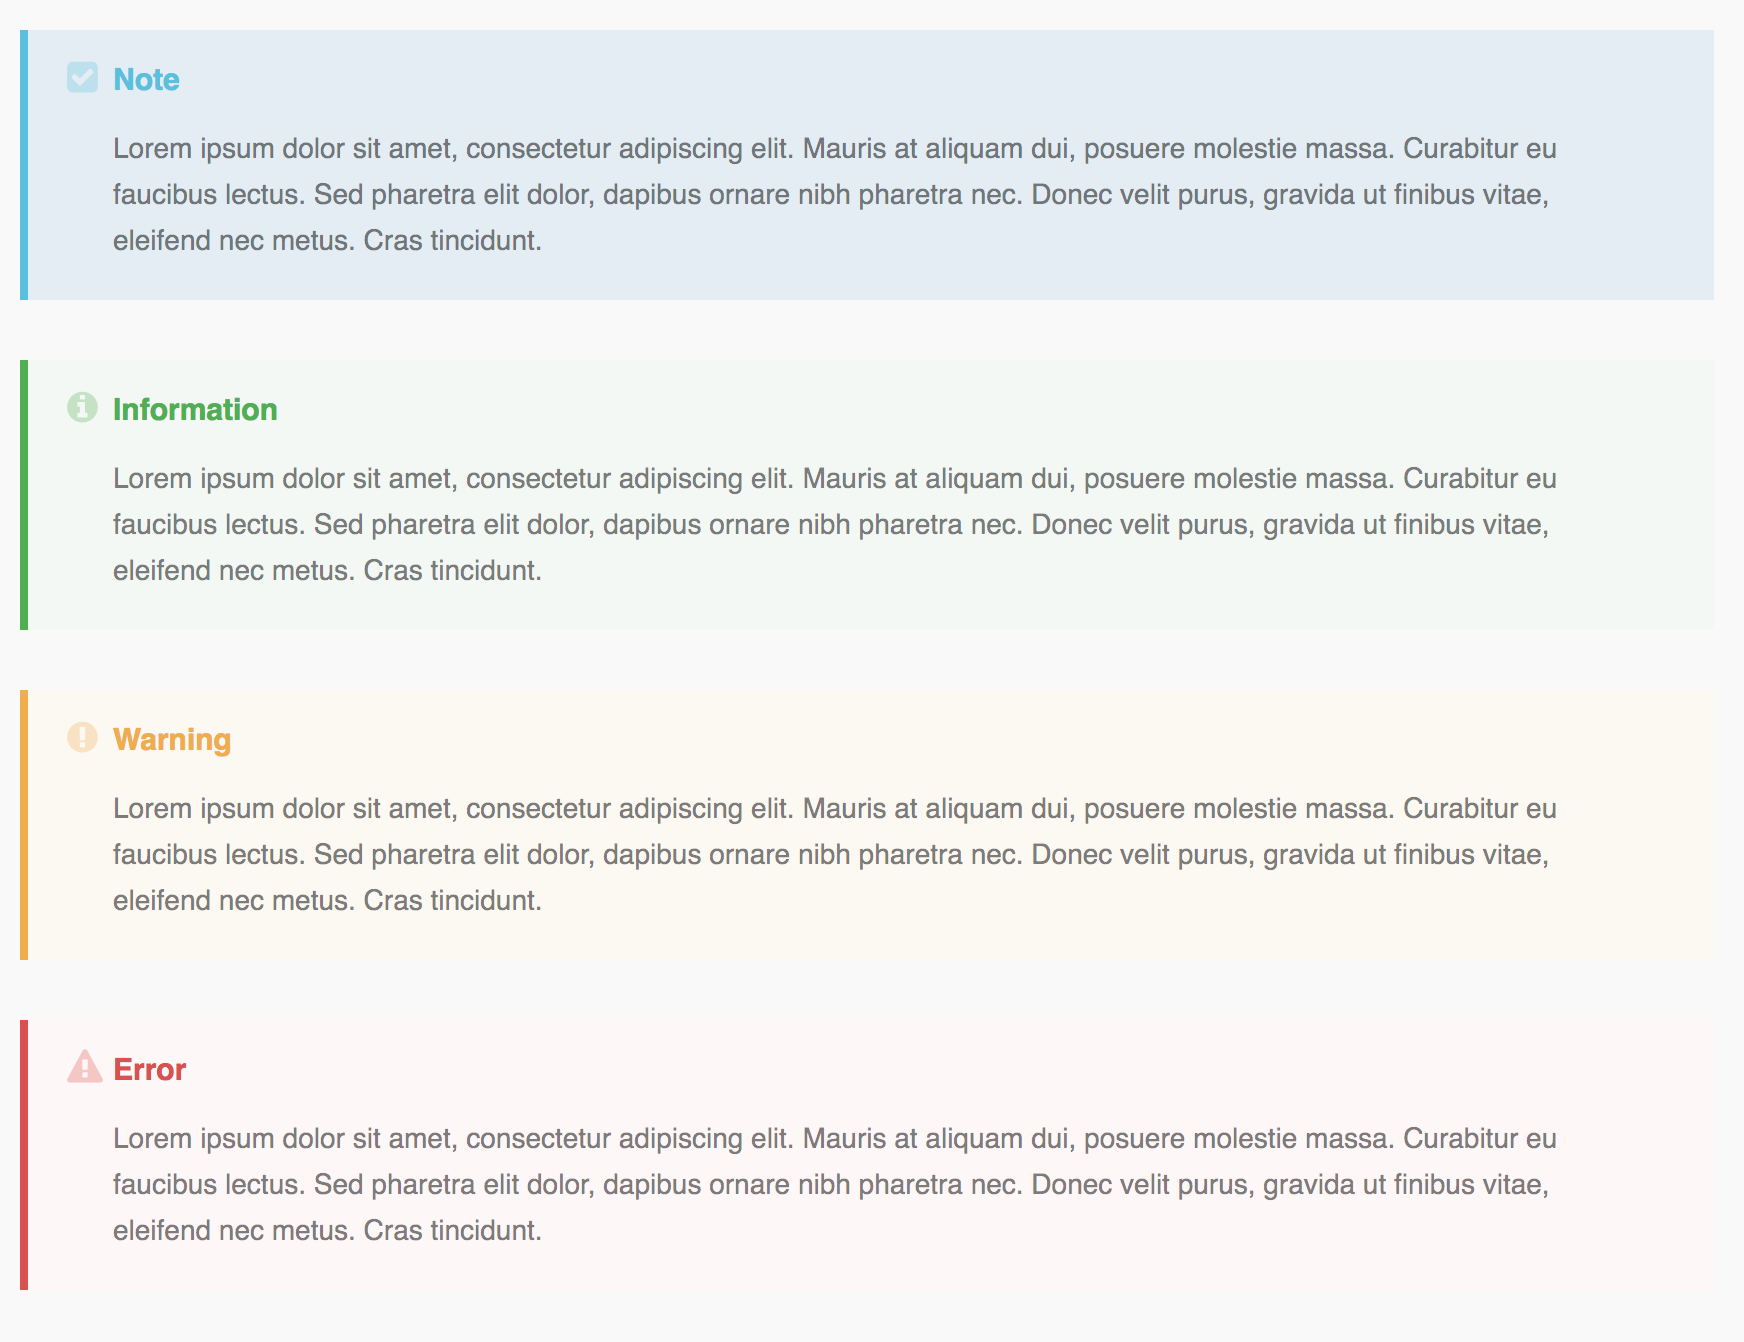
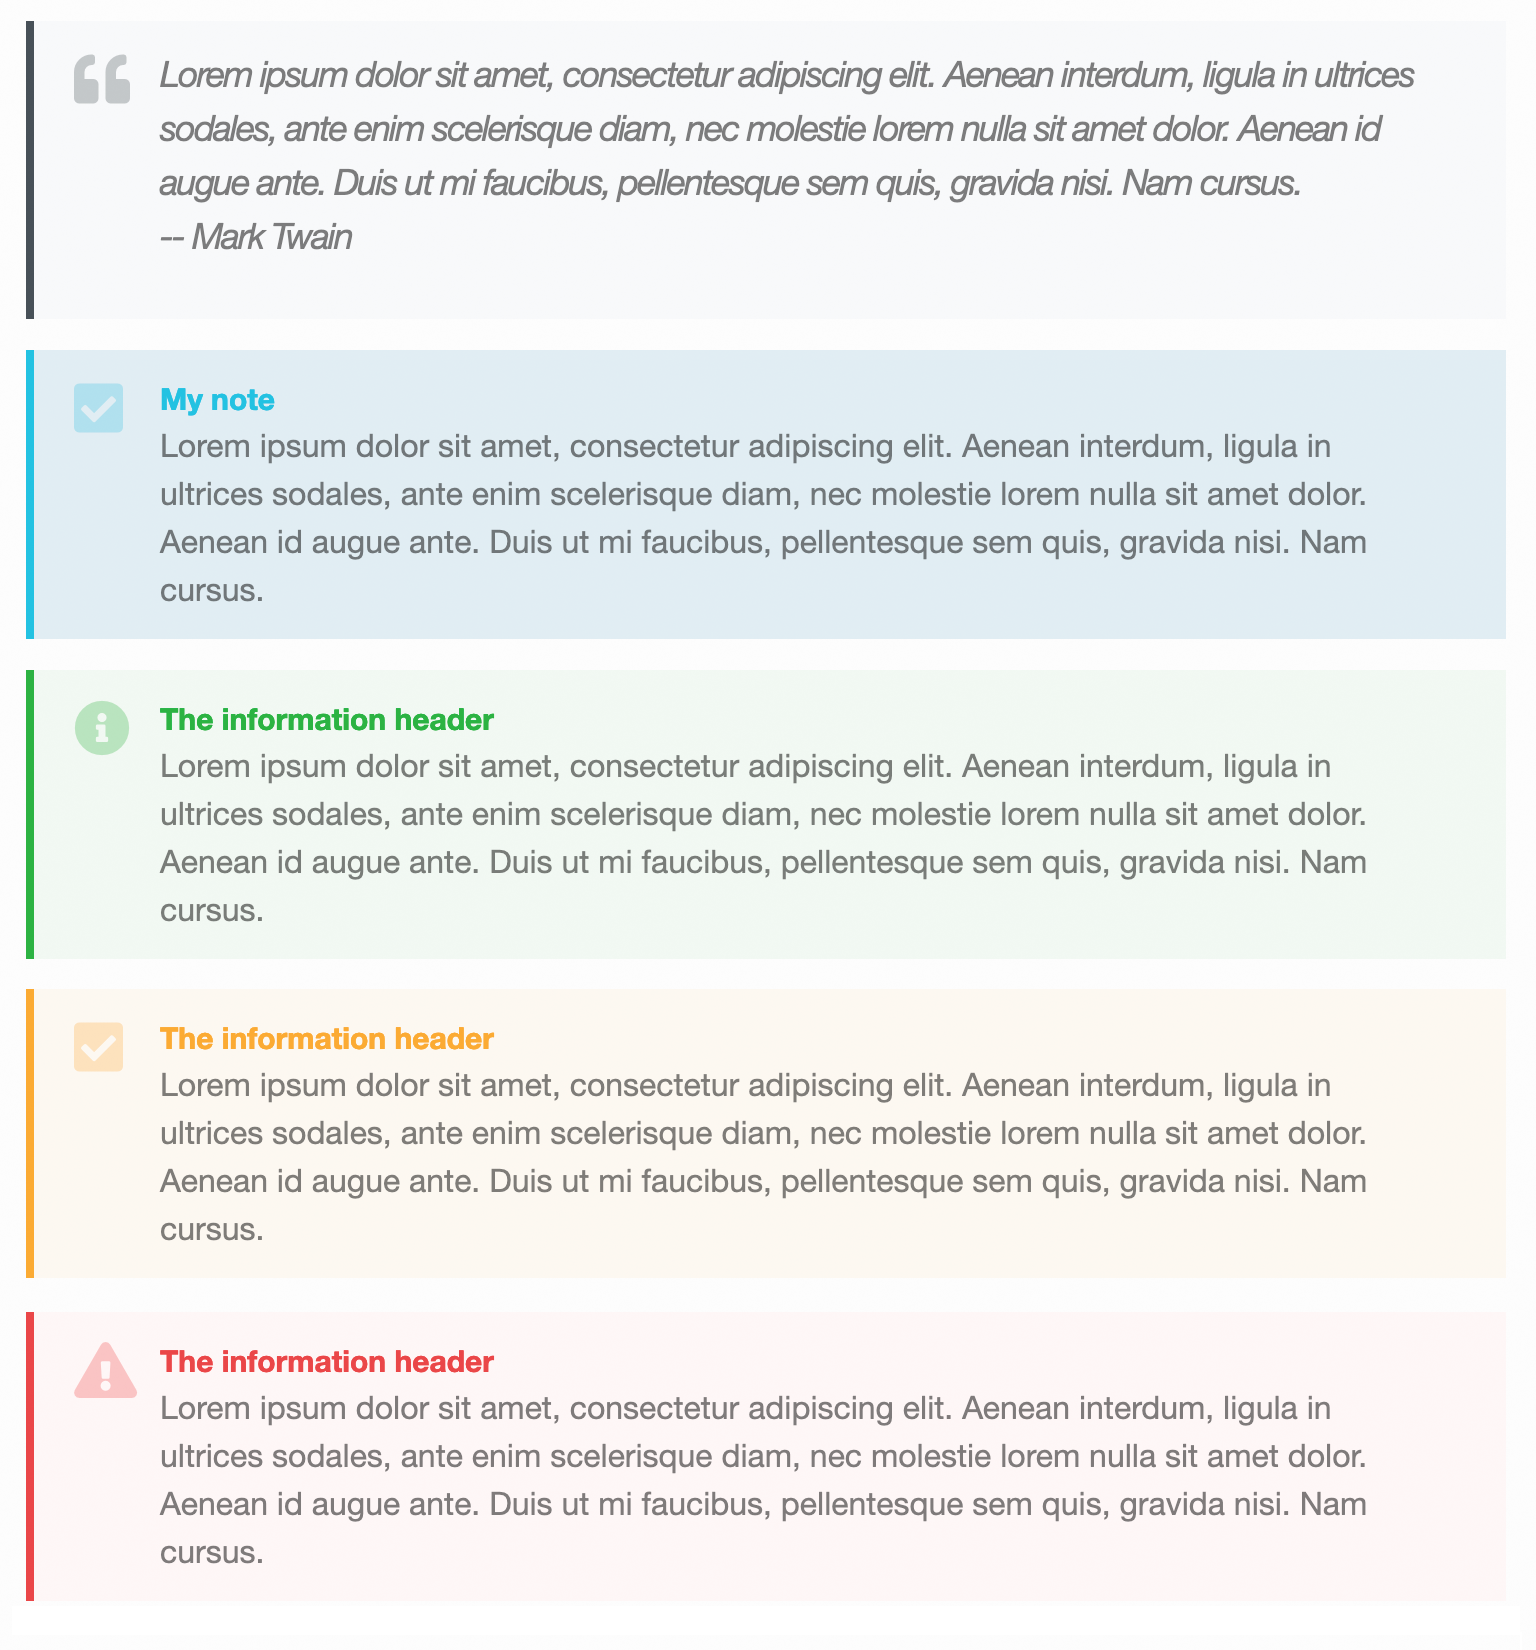
Doc

Changed region(s): [[0.0, 0.0, 1.0, 0.9776]]

diff --git a/README.md b/README.md
@@ -15,7 +15,17 @@ By simply adding a special header to the first line of a [block quote](https://g
  * Highly customizable (Create your own styles and templates easily)
  * Non-intrusive - Its just Markdown!
  * Easy to install
- * Comes with a stylesheet (Sass/Css) and templates for rendering typical information boxes.
+ * Comes with a stylesheet (Sass/Css) and templates for rendering the most common boxes.
+
+ ## Version 4 highlights
+
+ * Added Jekyll Excerpts support
+ * Kramdown reference links now supported
+ * Jekyll 4 support
+ * Added support for block attributes. This is in use in the new citation 
+   block type: `> citation "-- jakob" [ cite = "jvn" ]`
+ * Other minor bug fixes
+
 
 ## Requirements
 
